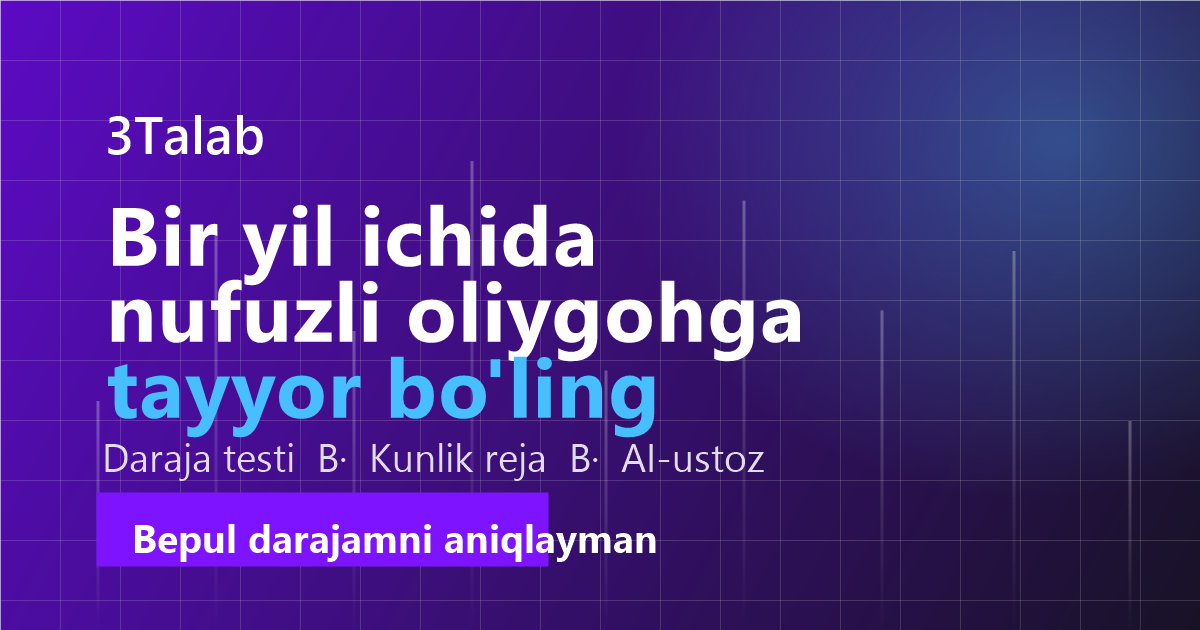
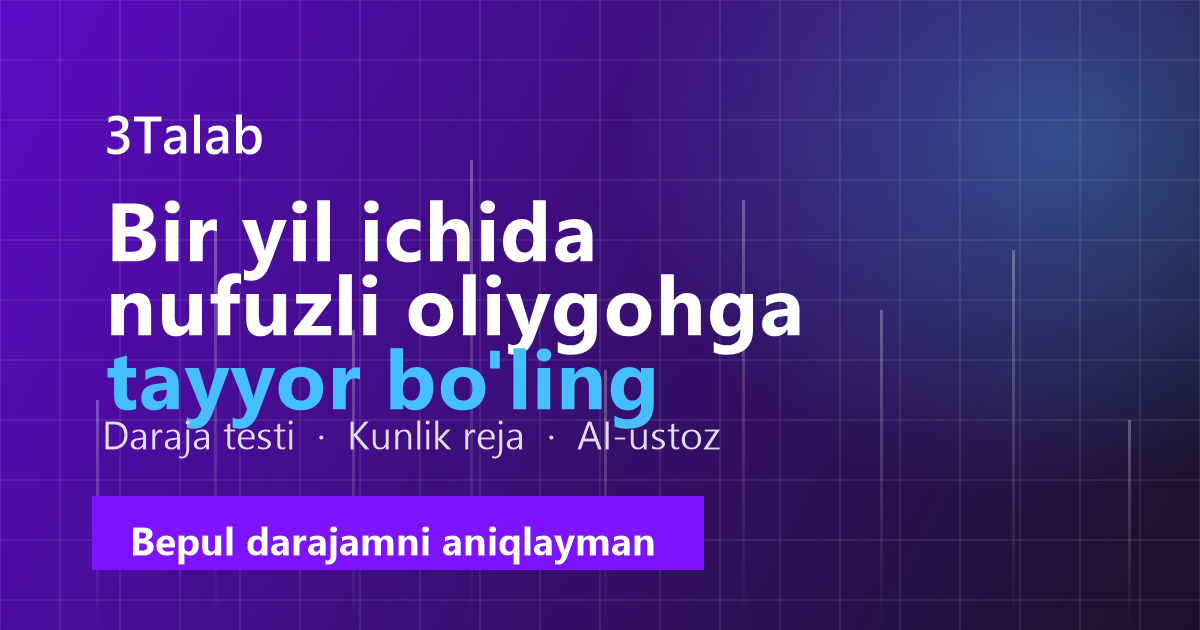
feat(web): generate a distinct Open Graph image per locale
Move all strings into og-content.json (PowerShell reads .ps1 as ANSI
without a BOM, which corrupted Cyrillic), auto-fit each line so text is
never clipped, and advertise the matching image from seoMeta for uz/en/ru.

Changed region(s): [[0.0617, 0.3016, 0.6783, 0.9048], [0.0925, 0.181, 0.2158, 0.2413], [0.3083, 0.5429, 0.3392, 0.573]]

diff --git a/apps/web/src/i18n/config.ts b/apps/web/src/i18n/config.ts
@@ -56,12 +56,19 @@ export const AUTH_PATHS = {
   register: "/register",
 } as const;
 
+/** Each locale advertises its own Open Graph image, generated by scripts/generate-og-image.ps1. */
+const OG_IMAGE_BY_LOCALE: Record<Locale, string> = {
+  uz: "/og-image.png",
+  en: "/og-image-en.png",
+  ru: "/og-image-ru.png",
+};
+
 export function seoMeta(locale: Locale) {
   const dictionary = dictionaries[locale];
   return {
     title: dictionary.meta.title,
     description: dictionary.meta.description,
-    image: absoluteUrl("/og-image.png"),
+    image: absoluteUrl(OG_IMAGE_BY_LOCALE[locale]),
     locale,
     option: getLocaleOption(locale),
   };

diff --git a/apps/web/src/lib/seo.ts b/apps/web/src/lib/seo.ts
@@ -123,6 +123,10 @@ export function useSeo(locale: Locale) {
       content: meta.description,
     });
     upsertMeta('meta[name="twitter:image"]', { name: "twitter:image", content: meta.image });
+    upsertMeta('meta[name="twitter:image:alt"]', {
+      name: "twitter:image:alt",
+      content: getDictionary(locale).meta.ogAlt,
+    });
 
     let script = document.head.querySelector<HTMLScriptElement>(
       'script[data-3talab="structured-data"]'
